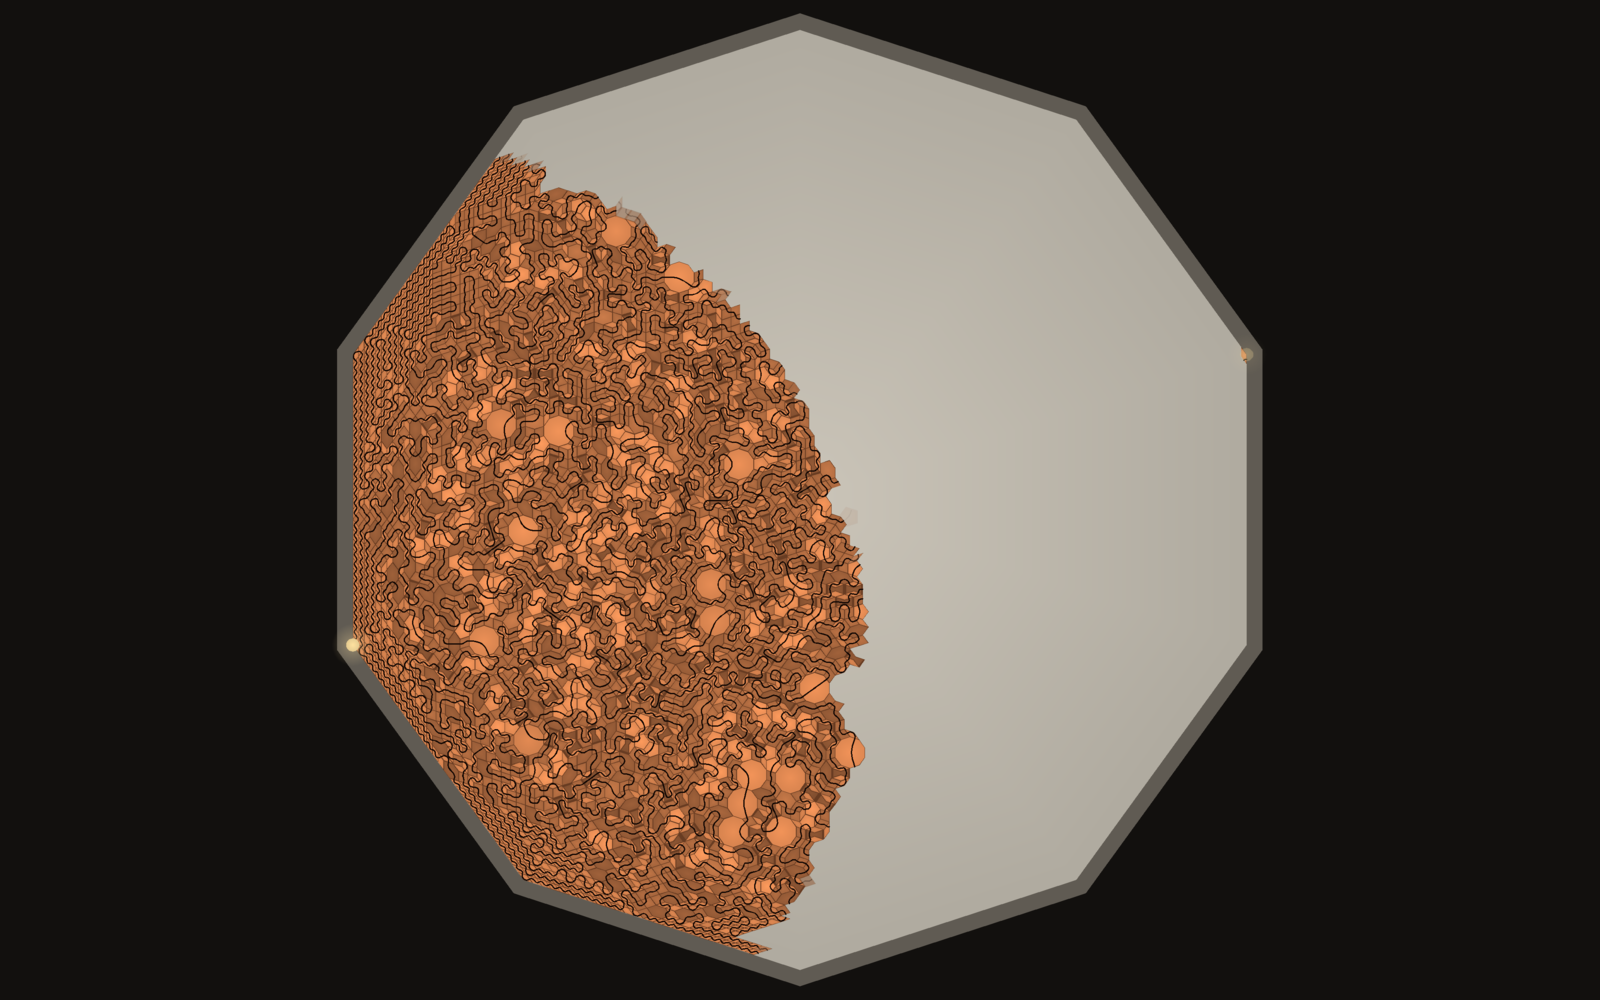
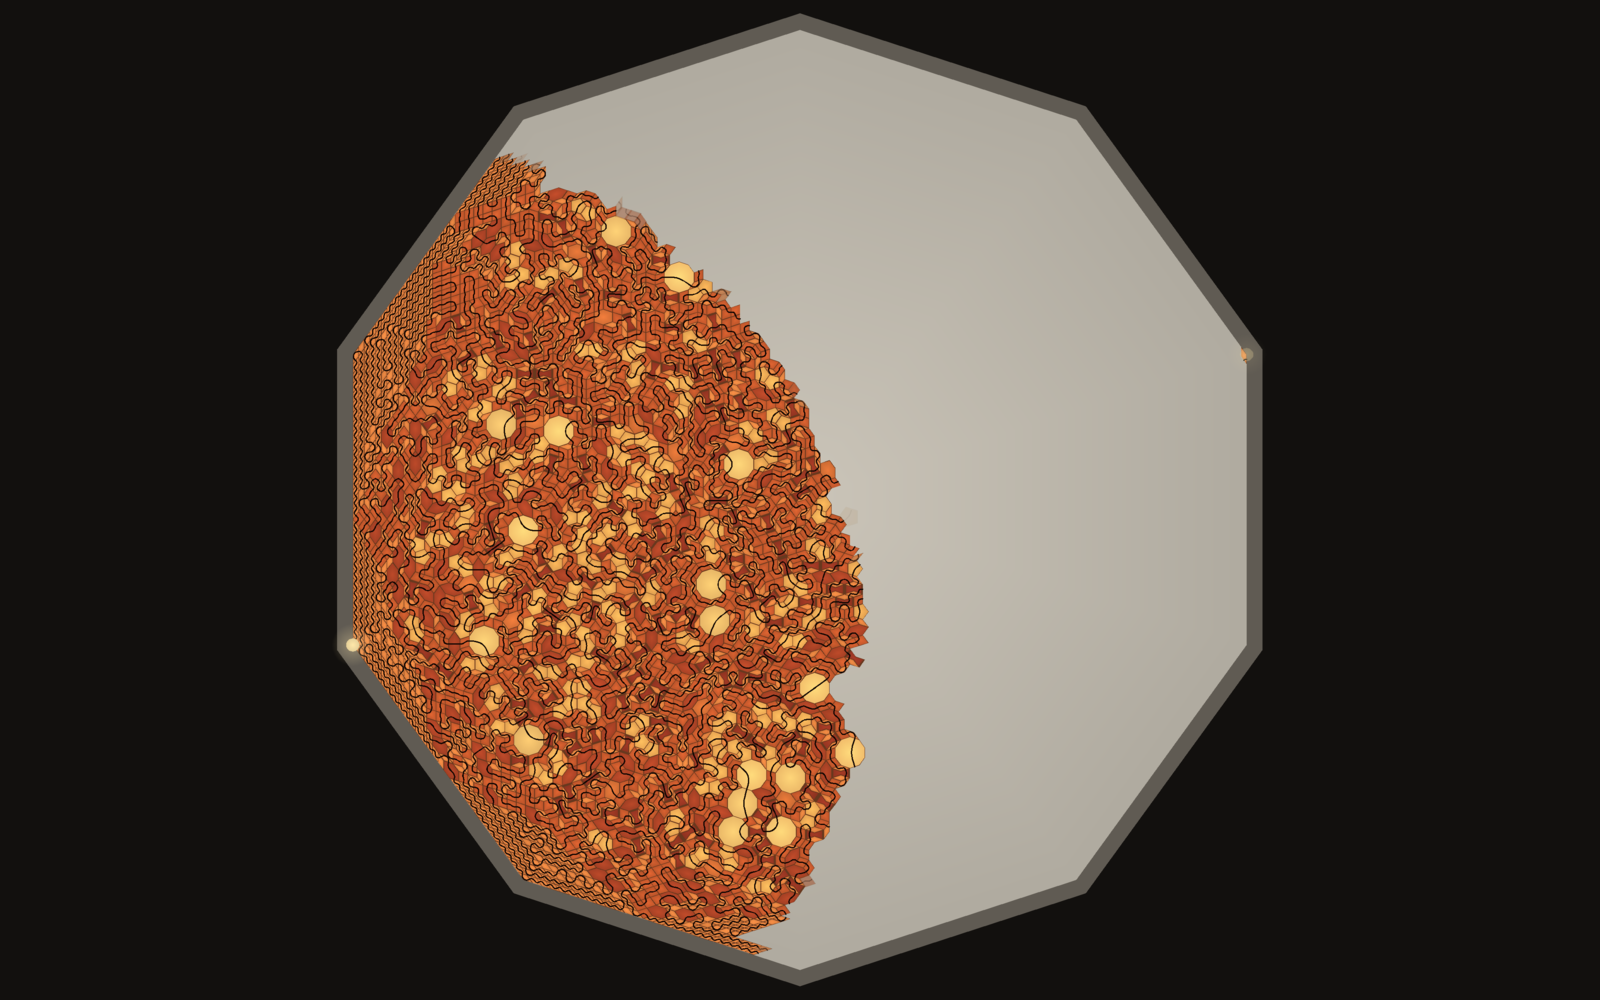
Livelier tiles: a colour for each shape in every layer

Changed region(s): [[0.2188, 0.186, 0.5625, 0.93]]

diff --git a/src/saver.c b/src/saver.c
@@ -39,15 +39,19 @@ static int opt_w = 1920, opt_h = 1200;
 
 /* ---- colours ---- */
 typedef struct { Uint8 r, g, b; } Rgb;
-typedef struct { Rgb tile, grout, groove, glow; } Palette;
+typedef struct { Rgb tile[TG_NS], grout, groove, glow; } Palette;
+/* a colour for each shape (thin rhomb, thick rhomb, pentagon, long hexagon, squat
+ * hexagon, octagon, decagon, bow tie), so the shapes read at a distance */
 static const Palette PAL[4] = {
-    {{206, 126, 76}, {104, 60, 34}, {14, 5, 2}, {255, 226, 160}},      /* terra-cotta */
-    {{112, 150, 102}, {52, 78, 48}, {4, 12, 6}, {220, 255, 196}},     /* green */
-    {{146, 104, 72}, {74, 50, 30}, {10, 5, 2}, {255, 210, 160}},       /* brown */
-    {{226, 222, 212}, {134, 130, 124}, {6, 6, 10}, {120, 190, 255}}, /* white porcelain, black glaze */
+    {{{232, 134, 66}, {204, 92, 46}, {246, 176, 88}, {178, 70, 40}, {222, 116, 56}, {210, 104, 52}, {252, 198, 112}, {156, 56, 36}},
+     {104, 56, 30}, {14, 5, 2}, {255, 232, 170}}, /* terra-cotta */
+    {{{124, 180, 108}, {80, 148, 96}, {176, 206, 116}, {54, 122, 90}, {104, 164, 100}, {92, 156, 98}, {204, 222, 136}, {40, 104, 86}},
+     {40, 70, 46}, {4, 12, 6}, {226, 255, 200}},  /* green */
+    {{{176, 120, 74}, {146, 92, 54}, {206, 156, 98}, {120, 72, 44}, {164, 108, 64}, {154, 100, 60}, {224, 182, 124}, {100, 56, 36}},
+     {66, 42, 24}, {10, 5, 2}, {255, 214, 164}},  /* brown */
+    {{{240, 236, 226}, {214, 218, 224}, {248, 242, 222}, {194, 202, 214}, {228, 226, 218}, {220, 220, 216}, {254, 250, 236}, {178, 188, 204}},
+     {120, 118, 116}, {6, 6, 10}, {120, 190, 255}}, /* white porcelain, black glaze */
 };
-/* each shape its own tone, so the shapes read at a distance */
-static const double SHADE[TG_NS] = {1.04, 0.86, 1.16, 0.76, 0.94, 0.72, 1.10, 0.68};
 static const Rgb BG = {18, 16, 14}, MARBLE = {196, 190, 178}, MARBLE_EDGE = {120, 114, 104};
 
 /* ---- geometry buffer ---- */
@@ -354,7 +358,7 @@ static void draw_tile(const TgTile *t, int id, const Palette *p, double appear, 
     }
     double grow = 1 + 0.35 * (1 - appear) * (1 - appear);
     double jit = 0.96 + 0.08 * (hash_u((unsigned)id * 2654435761u + (unsigned)layer * 97u) & 1023) / 1023.0;
-    double k = SHADE[t->s] * jit;
+    double k = jit;
     map(t->cx, t->cy, &cx, &cy);
     for (int j = 0; j < t->n; j++)
         map(t->cx + (t->x[j] - t->cx) * grow, t->cy + (t->y[j] - t->cy) * grow, &x[j], &y[j]);
@@ -365,7 +369,7 @@ static void draw_tile(const TgTile *t, int id, const Palette *p, double appear, 
     double in = 1 - joint / (rin * vscale);
     if (in < 0.62) in = 0.62;
     for (int j = 0; j < t->n; j++) { x[j] = cx + (x[j] - cx) * in; y[j] = cy + (y[j] - cy) * in; }
-    fan(x, y, t->n, cx, cy, col(p->tile, k * 1.04, alpha), col(p->tile, k * 0.96, alpha));
+    fan(x, y, t->n, cx, cy, col(p->tile[t->s], k * 1.08, alpha), col(p->tile[t->s], k * 0.94, alpha)); /* a little sheen */
     if (t->a >= 0 && t->b >= 0 && t->a != t->b) {
         double qx[GSEG + 1], qy[GSEG + 1];
         int np = groove_pts(t, t->a, t->b, qx, qy);

diff --git a/README.md b/README.md
@@ -33,7 +33,7 @@ porcelain with a black glazed line.
 | | |
 |---|---|
 | ![Close-up of the tiles and groove](docs/closeup.png) | ![Light running along the finished groove](docs/light.png) |
-| The seven shapes, each in its own tone | Finished: one curve, vertex to vertex |
+| The seven shapes, each in its own colour | Finished: one curve, vertex to vertex |
 | ![A second solution laid over the first](docs/layers.png) | ![The strict game](docs/strict.png) |
 | A new solution going down over the last | `--strict`: seven moulds, one groove each |
 
@@ -55,11 +55,11 @@ Packages are on the [releases page](../../releases).
 
 **Fedora, Nobara** (built on Fedora 44):
 
-    sudo dnf install ./teglon-1.0.3-1.fc44.x86_64.rpm
+    sudo dnf install ./teglon-1.0.4-1.fc44.x86_64.rpm
 
 **Debian, Ubuntu, Mint** (needs glibc 2.35 or newer, i.e. Ubuntu 22.04 / Debian 12 or later):
 
-    sudo apt install ./teglon_1.0.3_amd64.deb
+    sudo apt install ./teglon_1.0.4_amd64.deb
 
 Then turn it on for your session:
 
@@ -72,7 +72,7 @@ run `teglon` when the session goes idle. It works on compositors that provide th
 ext-idle-notify protocol: KDE Plasma, Sway, Hyprland, niri, COSMIC, labwc and
 others. GNOME does not provide it. It does not lock the screen.
 
-**Windows:** run `Teglon-Setup-1.0.3.exe`. It installs for the current user without
+**Windows:** run `Teglon-Setup-1.0.4.exe`. It installs for the current user without
 administrator rights, makes Teglon the current screensaver, and offers to open
 Screen Saver Settings. Uninstall from Apps or the Start menu. The Windows build is
 cross-compiled and has not been tested on a real Windows machine yet.
